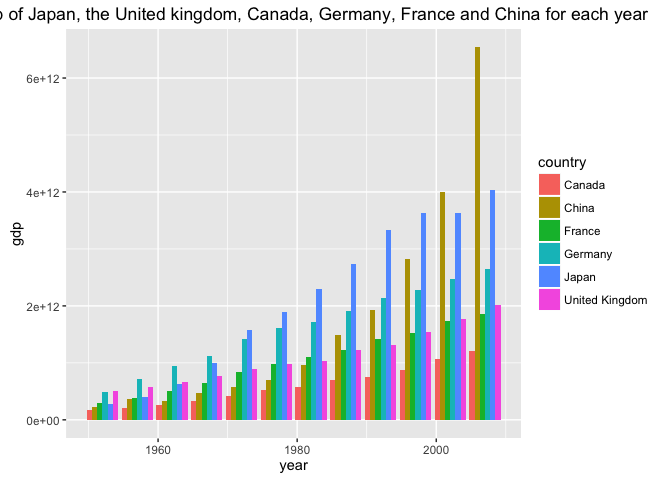
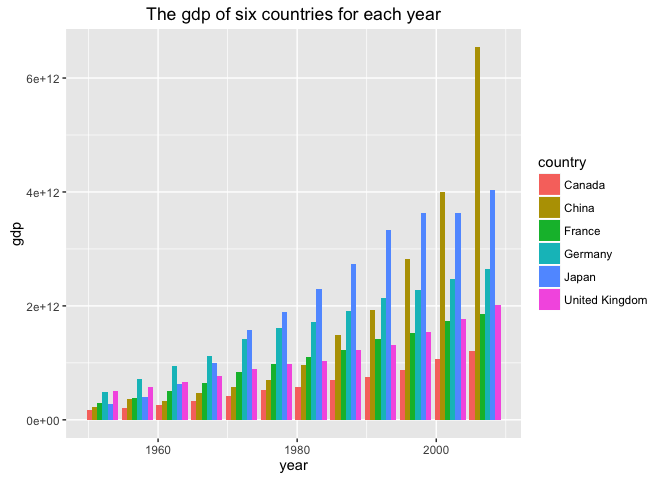
Homework 03

Changed region(s): [[0.0, 0.0, 0.9688, 0.0625]]

diff --git a/hw03_use-dplyr-to-manipulate-and-explore-data.md b/hw03_use-dplyr-to-manipulate-and-explore-data.md
@@ -431,7 +431,7 @@ knitr::kable(gdp)
 gdp %>% 
   ggplot(aes(x = year, y = gdp, fill = country)) +
   geom_bar(stat = "identity", position = "dodge") +
-  ggtitle("The gdp of Japan, the United kingdom, Canada, Germany, France and China for each year")
+  ggtitle("The gdp of six countries for each year")
 ```
 
 ![](hw03_use-dplyr-to-manipulate-and-explore-data_files/figure-markdown_github/unnamed-chunk-16-1.png)
@@ -524,7 +524,7 @@ lifeExp %>%
   ggplot(aes(x = year, y = lifeExp, shape = country, color = country)) +
   geom_point() +
   geom_path() +
-  ggtitle("The life expectancy of Japan, the United Kingdom, Canada, Germany, France and China for each year")
+  ggtitle("The life expectancy of six countries for each year")
 ```
 
 ![](hw03_use-dplyr-to-manipulate-and-explore-data_files/figure-markdown_github/unnamed-chunk-18-1.png)
